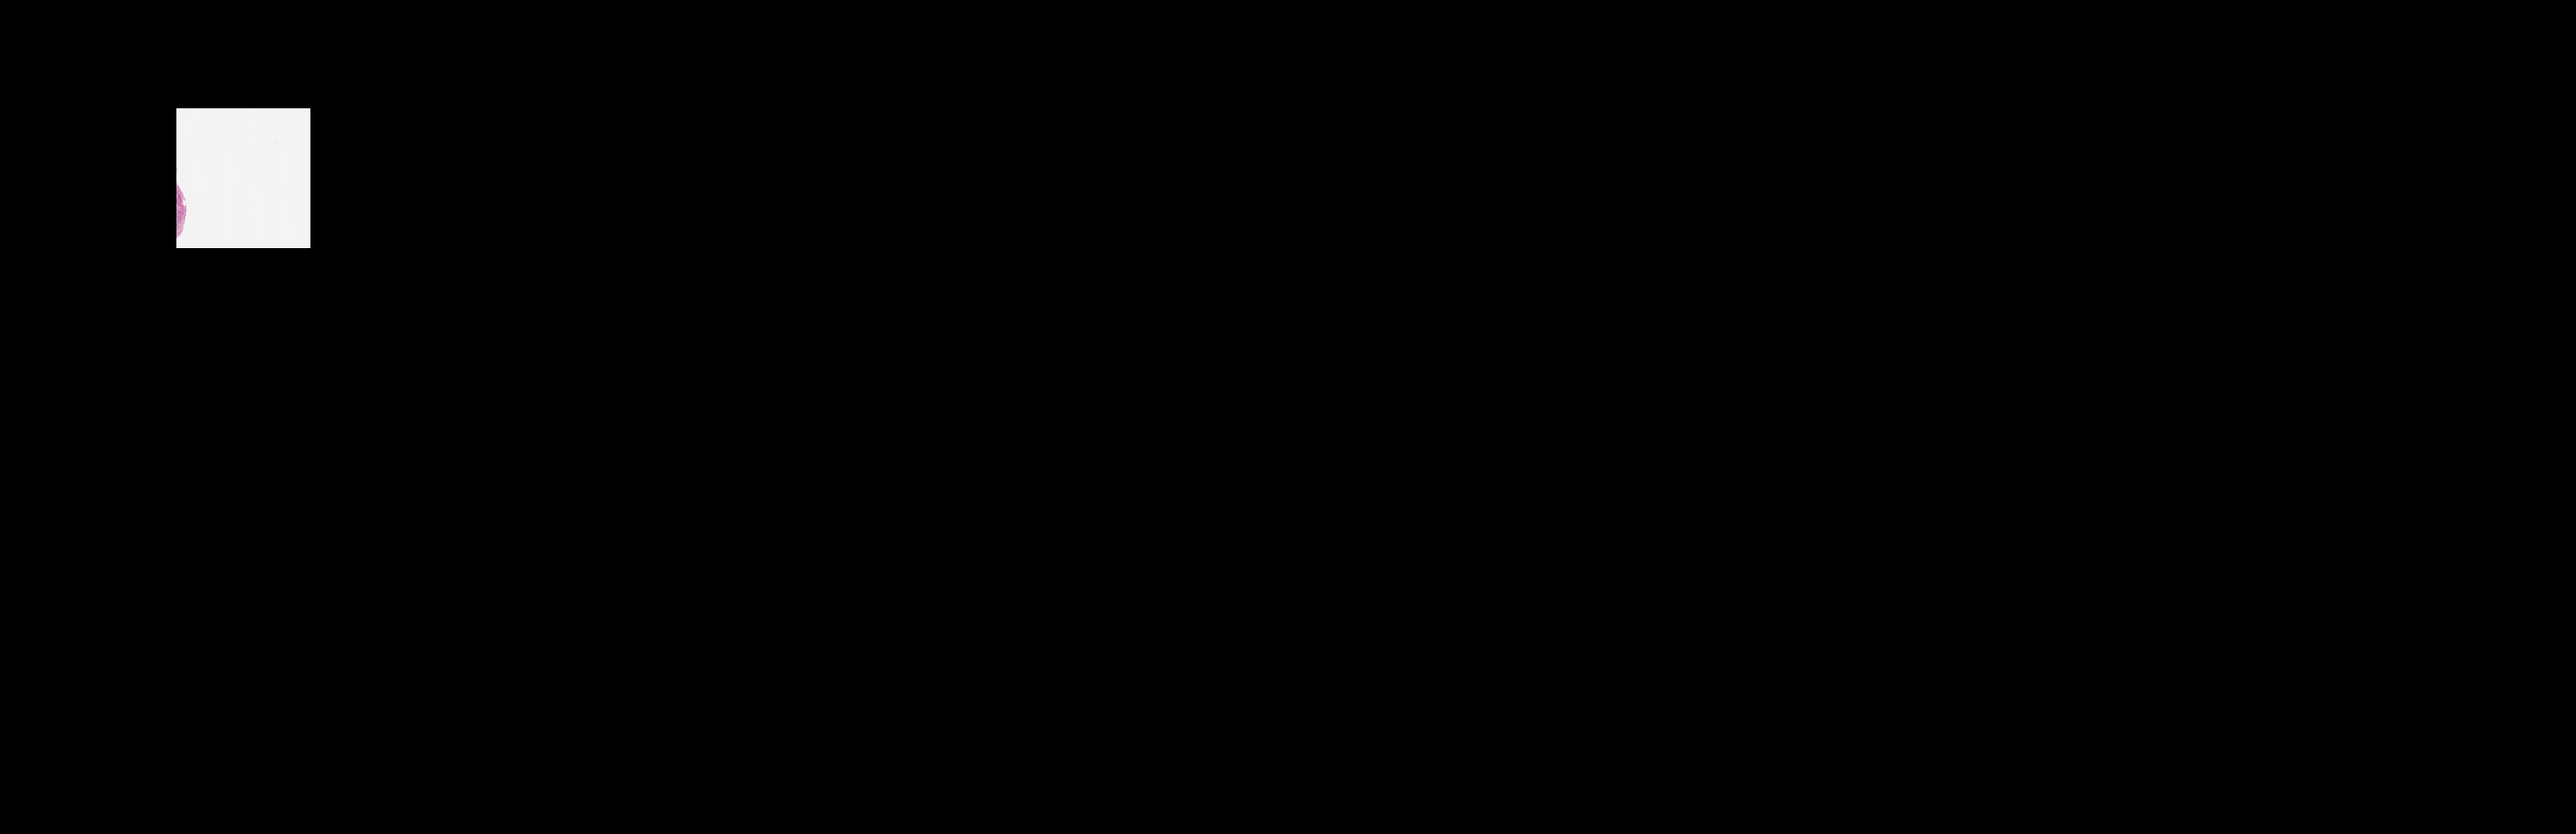
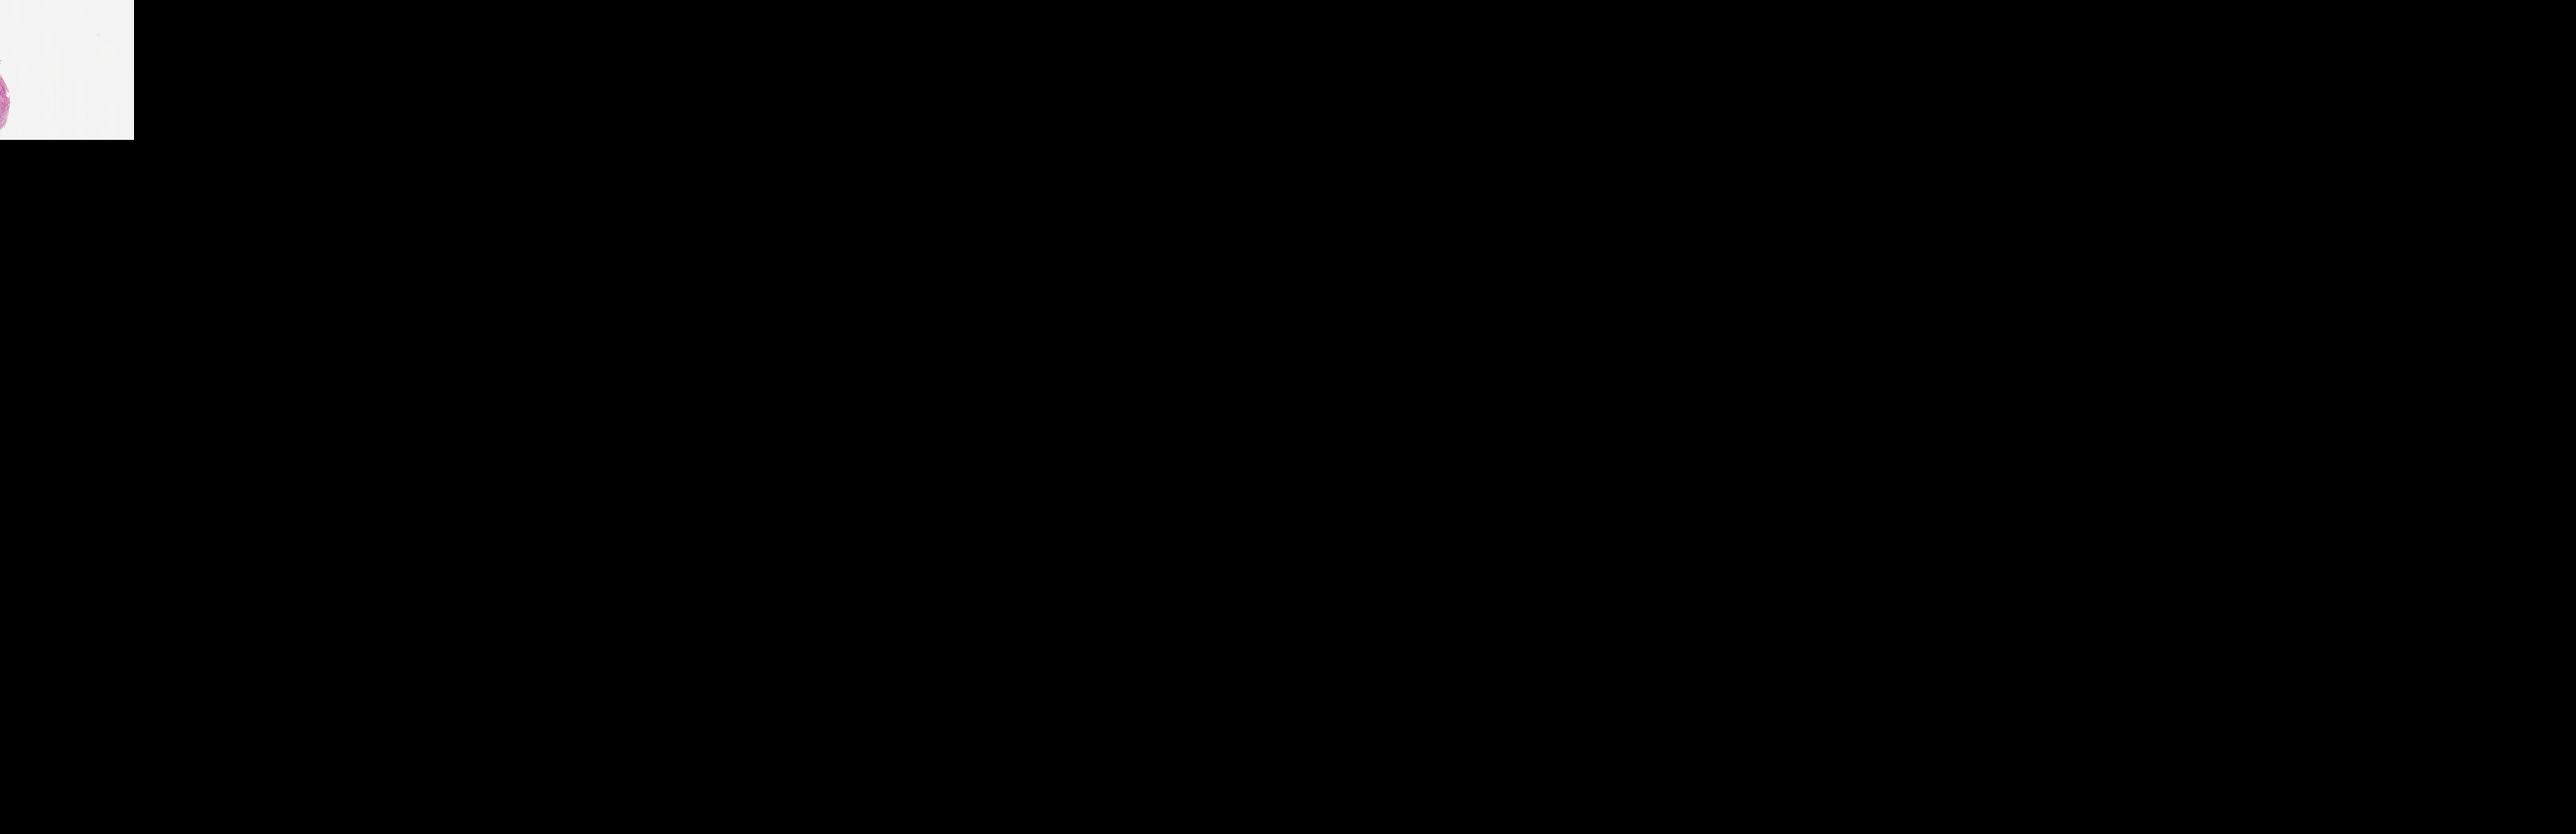
fixed extraction position

Changed region(s): [[0.0, 0.0, 0.1239, 0.307]]

diff --git a/src/features/wsi/roi.py b/src/features/wsi/roi.py
@@ -75,10 +75,12 @@ def read_slide_level_in_parts(slide, level, part_size, channels=None, start_xy=N
 	extent_x = prescale*range_x
 	extent_x_downscaled = range_x
 	last_x = False
+	print("START: ", start_x, extent_x)
 	while (not last_x) or (extent_x!=0 and (start_x+extent_x)<=end_x):
 		
 		# Include remainder patch
 		if not last_x and (start_x+extent_x)>end_x:
+			print("IN")
 			extent_x = end_x - start_x
 			extent_x_downscaled = end_x_downscaled - start_x_downscaled
 			last_x = True
@@ -102,7 +104,9 @@ def read_slide_level_in_parts(slide, level, part_size, channels=None, start_xy=N
 				extent_y_downscaled = end_y_downscaled - start_y_downscaled
 				last_y = True
 			# Extract part
-
+			print(extent_x_downscaled, extent_y_downscaled)
+			print(extent_x, extent_y)
+			print(start_x, end_x)
 			part_data = np.asarray(slide.read_region(
 				(start_x, start_y), 
 				level=level,
@@ -114,8 +118,8 @@ def read_slide_level_in_parts(slide, level, part_size, channels=None, start_xy=N
 			# Run generator 1-step
 			yield (
 				np.transpose(part_data, (1, 0, 2)),
-				start_x_downscaled,
-				start_y_downscaled
+				last_x,
+				last_y
 			)
 			start_y += extent_y
 			start_y_downscaled += extent_y_downscaled
@@ -133,8 +137,18 @@ def extract_level_from_slide(slide, level=0, part_size=(2048, 2048), start_xy=No
 	"""    
 	# Open accumulator file
 	img_acc = make_temp_memarr_file(slide, level, dimensions=(None, None, 3))
-	for part, x, y in read_slide_level_in_parts(slide, level, part_size, channels=3, start_xy=start_xy, end_xy=end_xy):
-		img_acc[x:x+part.shape[0], y:y+part.shape[1], :] = part
+	store_x, store_y = (0, 0)
+	print("FULL", img_acc.shape)
+	for part, last_x, last_y in read_slide_level_in_parts(slide, level, part_size, channels=3, start_xy=start_xy, end_xy=end_xy):
+		img_acc[store_x:(store_x+part.shape[0]), store_y:(store_y+part.shape[1]), :] = part
+		if last_x:
+			store_x = 0
+		else:
+			store_x += part.shape[0]
+		if last_y:
+			store_y = 0
+		else:
+			store_y += part.shape[1]
 	# Retranspose the array
 	img_acc = np.transpose(img_acc, (1, 0, 2))
 	return img_acc
